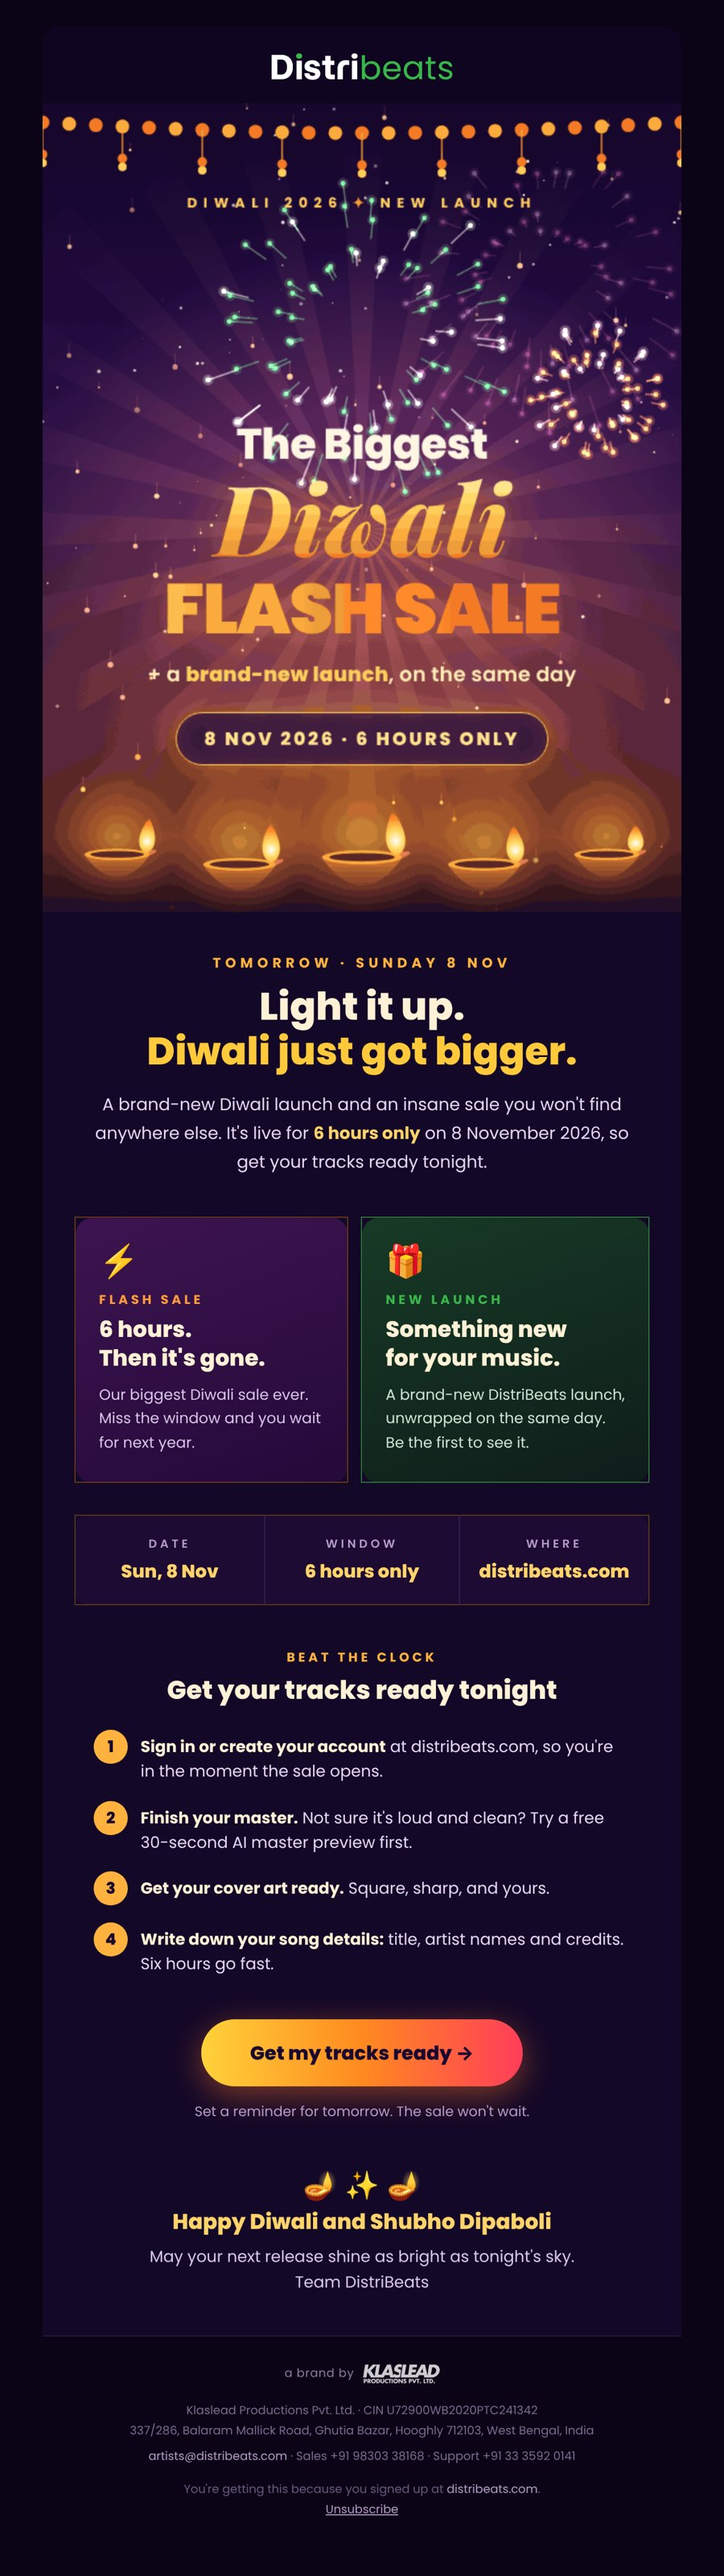
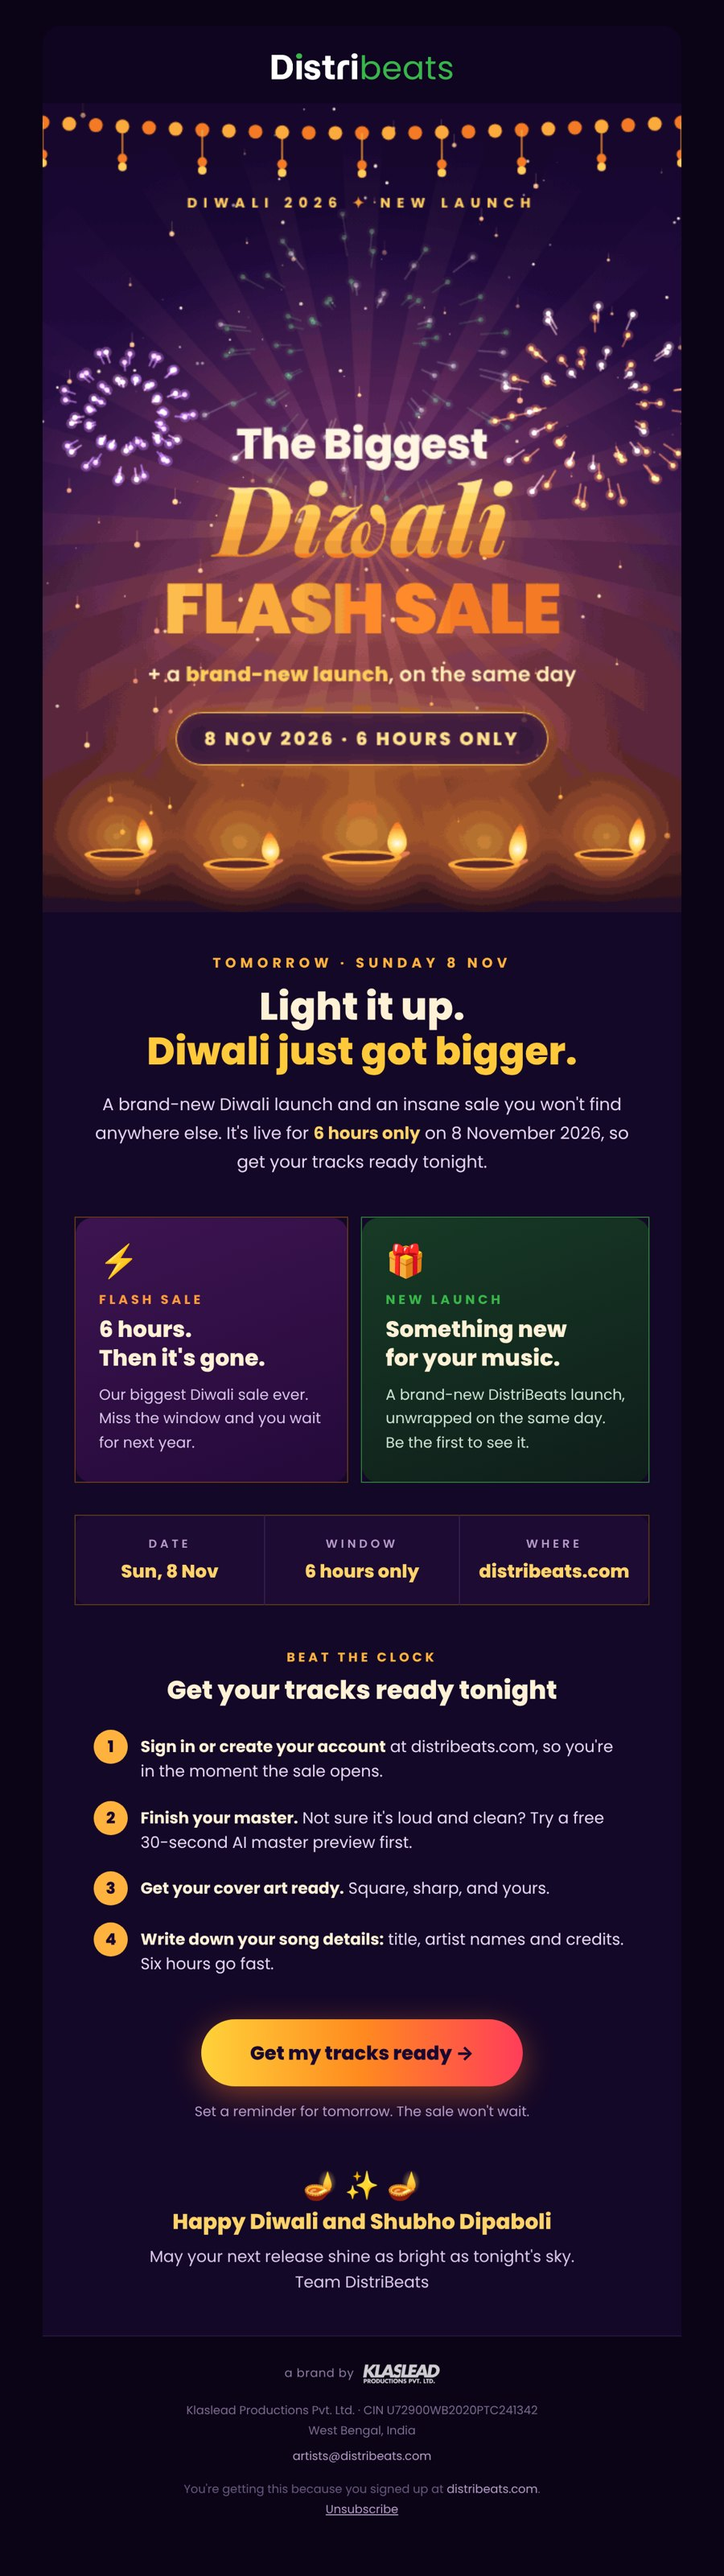
Newsletter footer: drop full address and phone numbers, use West Bengal, India
Claude-Session: https://claude.ai/code/session_01A8thwr9eD2xAMvqyaZCdxQ

diff --git a/newsletters/2026-11-08-diwali-flash-sale/newsletter.html b/newsletters/2026-11-08-diwali-flash-sale/newsletter.html
@@ -135,9 +135,9 @@ Tomorrow, 8 Nov: the biggest Diwali flash sale + a brand-new launch. 6 hours onl
         <td valign="middle"><img src="https://raw.githubusercontent.com/klaslead/distribeats/claude/project-thread-6a2x4o/newsletters/2026-11-08-diwali-flash-sale/klaslead-mono-white-400.png" width="72" height="18" alt="Klaslead Productions" style="width:72px;height:auto;opacity:.8;"></td>
       </tr>
     </table>
-    <p style="margin:0 0 6px 0;font-size:11px;line-height:1.7;color:#7d6a90;">Klaslead Productions Pvt. Ltd. · CIN U72900WB2020PTC241342<br>337/286, Balaram Mallick Road, Ghutia Bazar, Hooghly 712103, West Bengal, India</p>
+    <p style="margin:0 0 6px 0;font-size:11px;line-height:1.7;color:#7d6a90;">Klaslead Productions Pvt. Ltd. · CIN U72900WB2020PTC241342<br>West Bengal, India</p>
     <p style="margin:0 0 12px 0;font-size:11px;line-height:1.7;color:#7d6a90;">
-      <a href="mailto:artists@distribeats.com" style="color:#b79ac9;">artists@distribeats.com</a> · Sales +91 98303 38168 · Support +91 33 3592 0141</p>
+      <a href="mailto:artists@distribeats.com" style="color:#b79ac9;">artists@distribeats.com</a></p>
     <p style="margin:0;font-size:11px;line-height:1.7;color:#6a5880;">You're getting this because you signed up at <a href="https://distribeats.com" style="color:#b79ac9;">distribeats.com</a>.<br>
       <a href="{{UNSUBSCRIBE_URL}}" style="color:#b79ac9;text-decoration:underline;">Unsubscribe</a></p>
   </td></tr>
